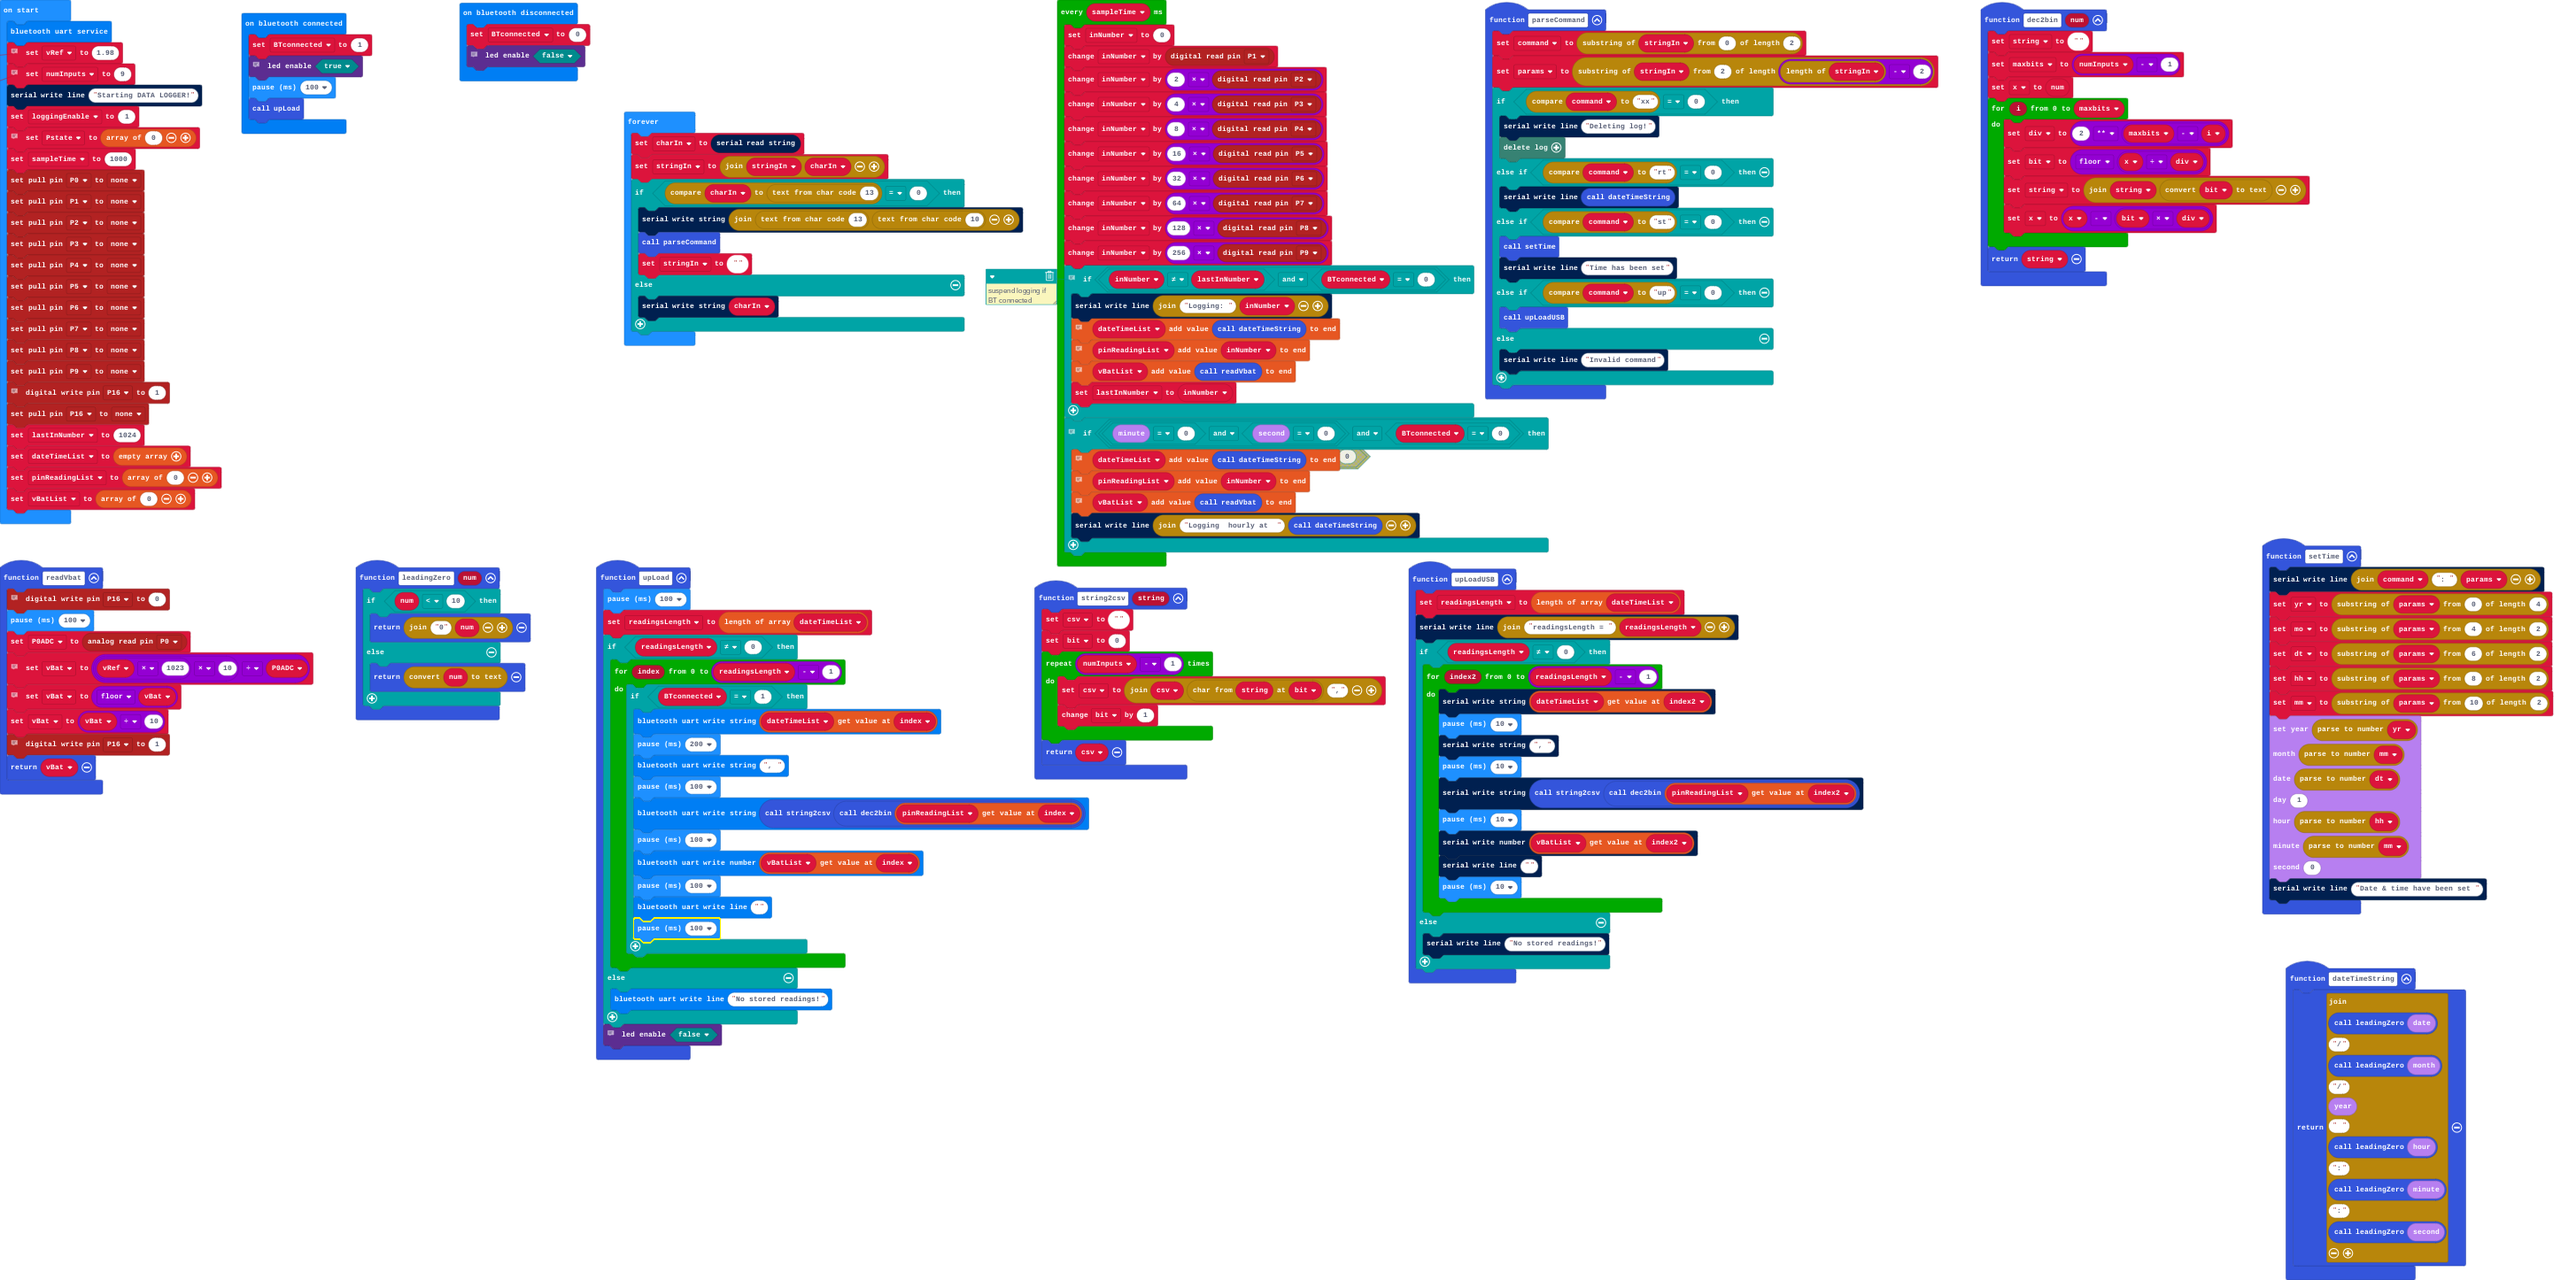
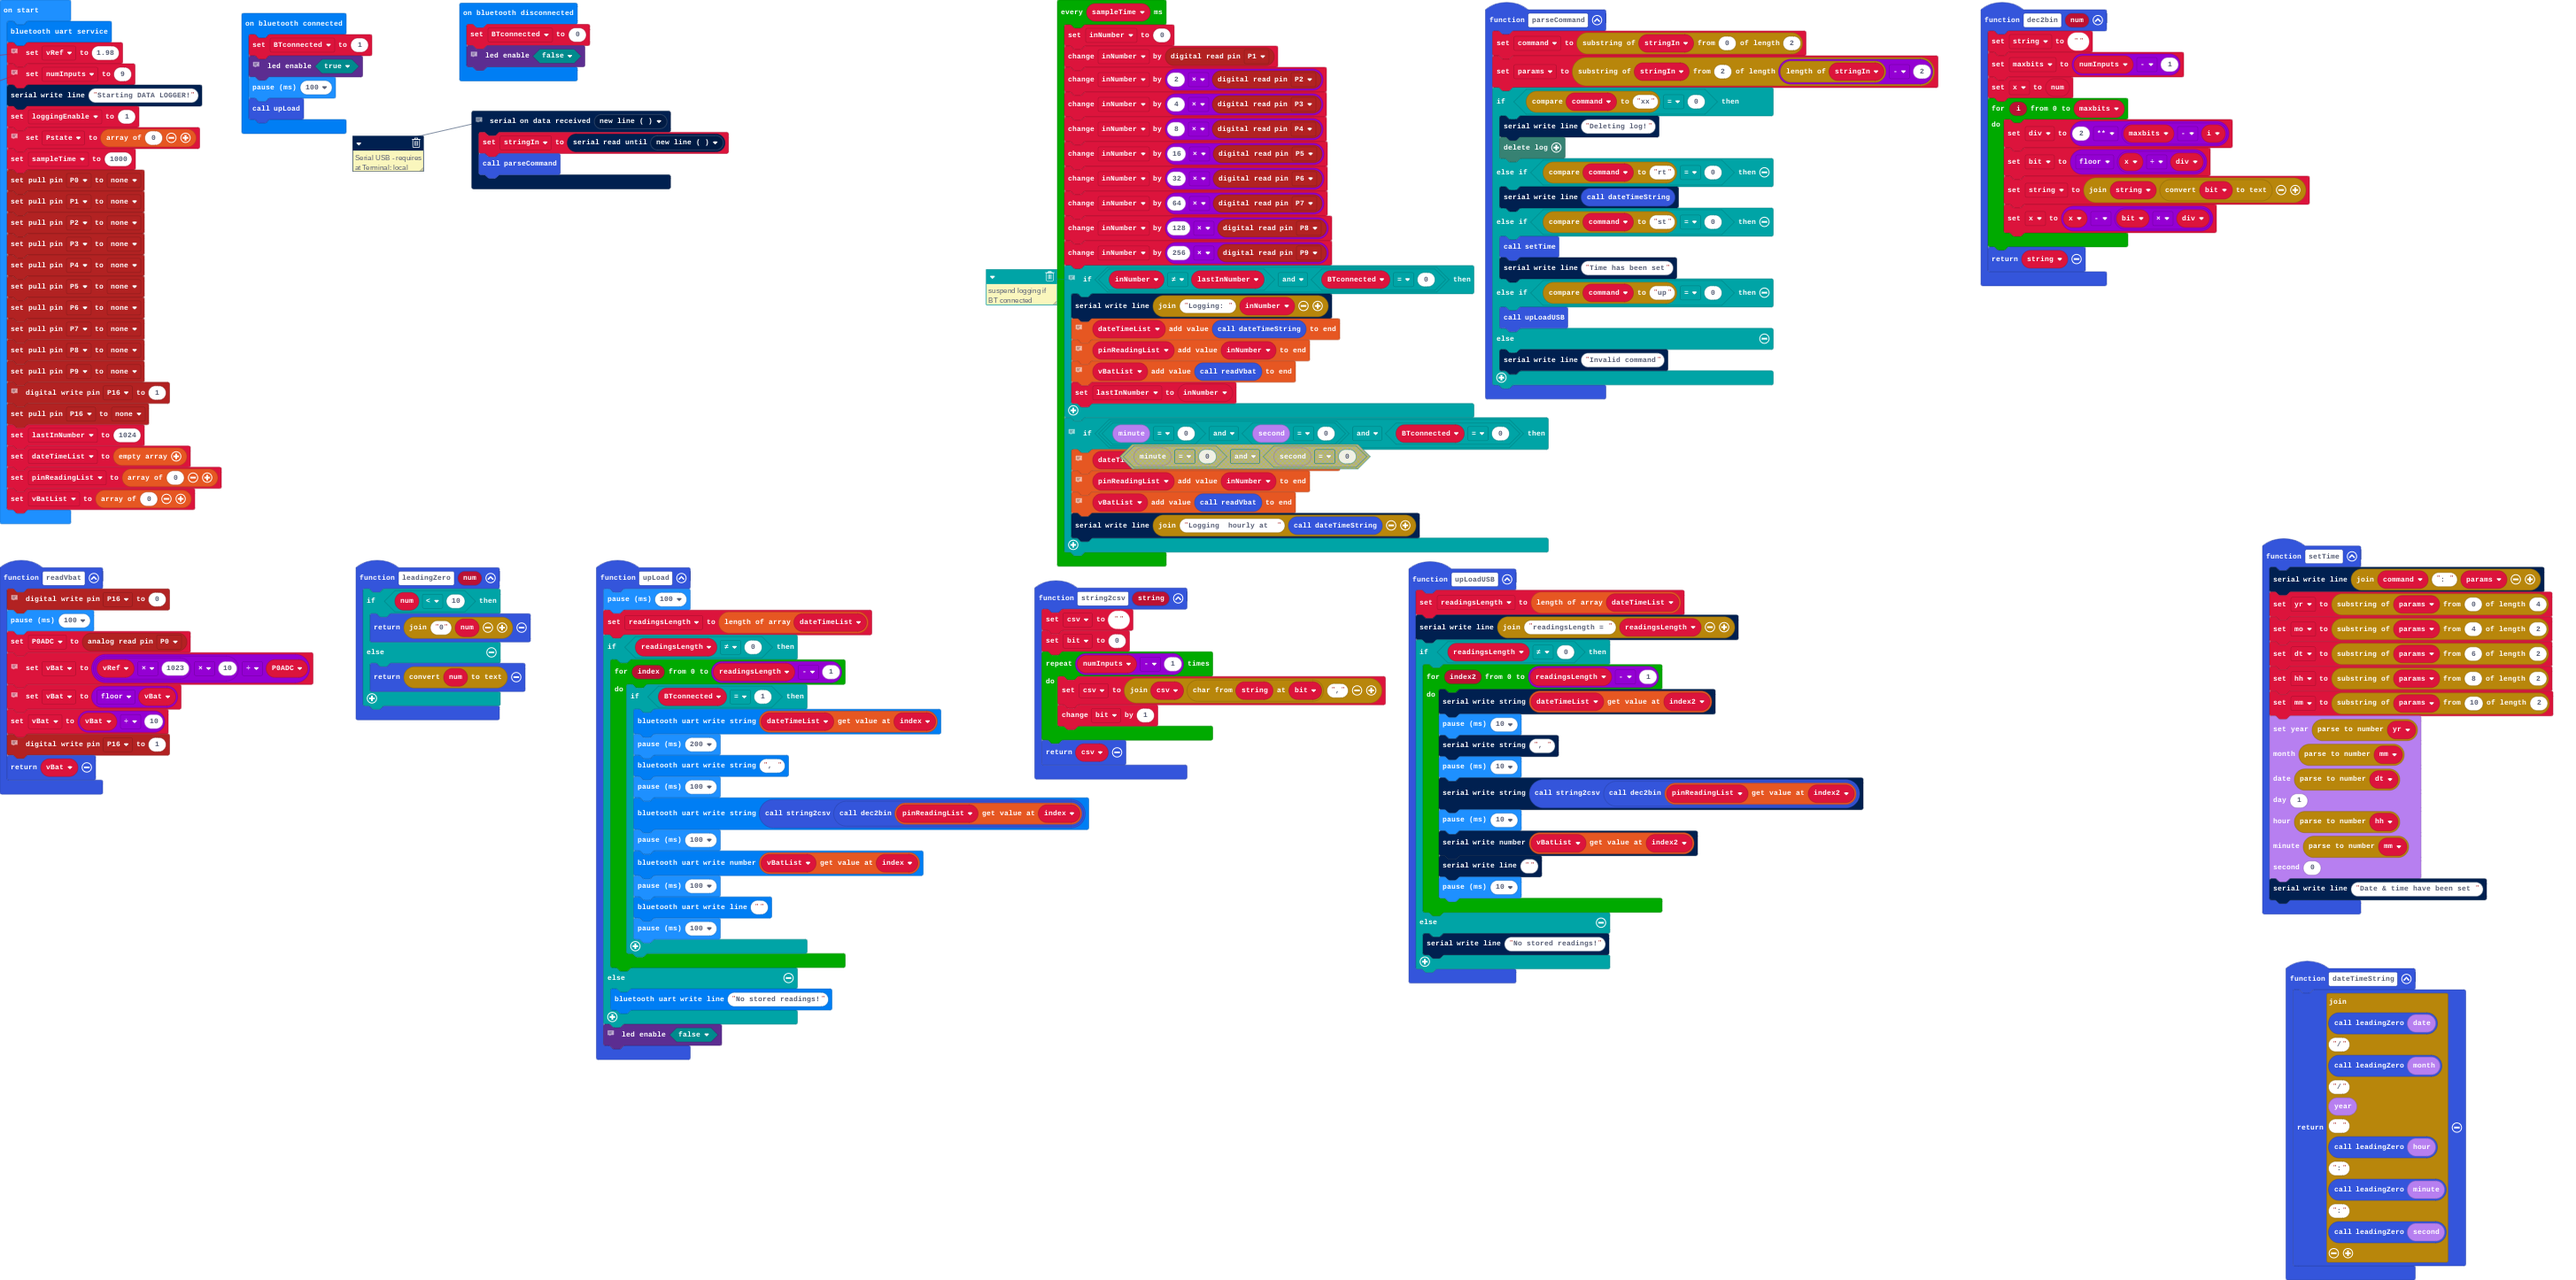
Fixed serial input loop to work with USB serial terminal Android app

Changed region(s): [[0.1238, 0.0622, 0.4022, 0.2801], [0.4331, 0.3423, 0.526, 0.3734]]

diff --git a/main.ts b/main.ts
@@ -133,8 +133,12 @@ function upLoadUSB () {
         serial.writeLine("No stored readings!")
     }
 }
+// Serial USB - requires at Terminal: local echo, CR+LF on send, clear input on send
+serial.onDataReceived(serial.delimiters(Delimiters.NewLine), function () {
+    stringIn = serial.readUntil(serial.delimiters(Delimiters.NewLine))
+    parseCommand()
+})
 let inNumber = 0
-let charIn = ""
 let csv = ""
 let mm = ""
 let hh = ""
@@ -186,17 +190,6 @@ let lastInNumber = 1024
 dateTimeList = []
 pinReadingList = [0]
 vBatList = [0]
-basic.forever(function () {
-    charIn = serial.readString()
-    stringIn = "" + stringIn + charIn
-    if (charIn.compare(String.fromCharCode(13)) == 0) {
-        serial.writeString("" + String.fromCharCode(13) + String.fromCharCode(10))
-        parseCommand()
-        stringIn = ""
-    } else {
-        serial.writeString(charIn)
-    }
-})
 loops.everyInterval(sampleTime, function () {
     inNumber = 0
     inNumber += pins.digitalReadPin(DigitalPin.P1)
